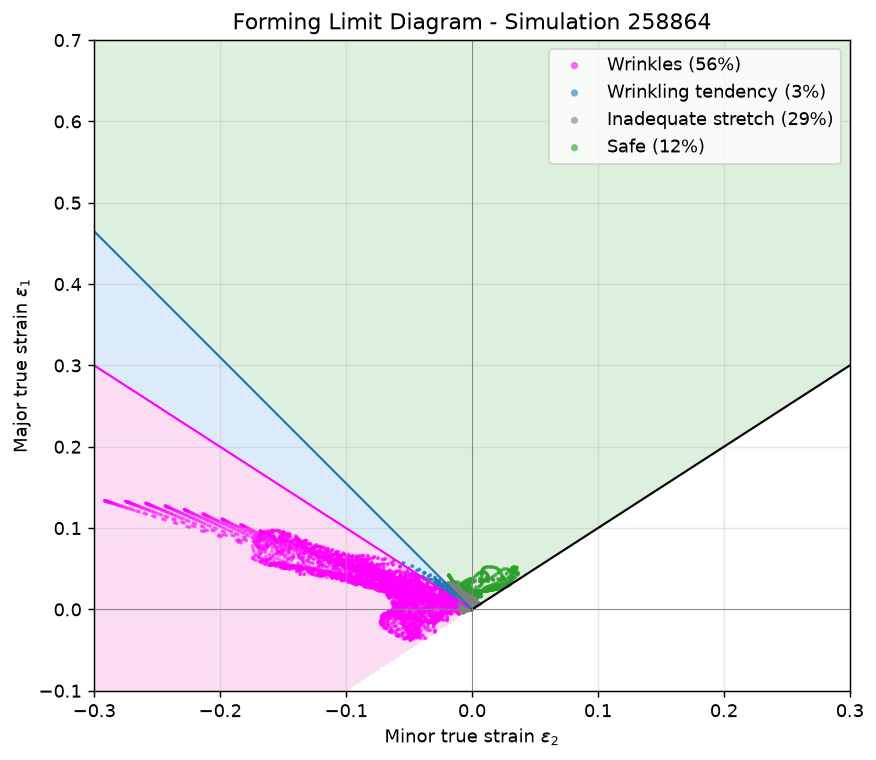
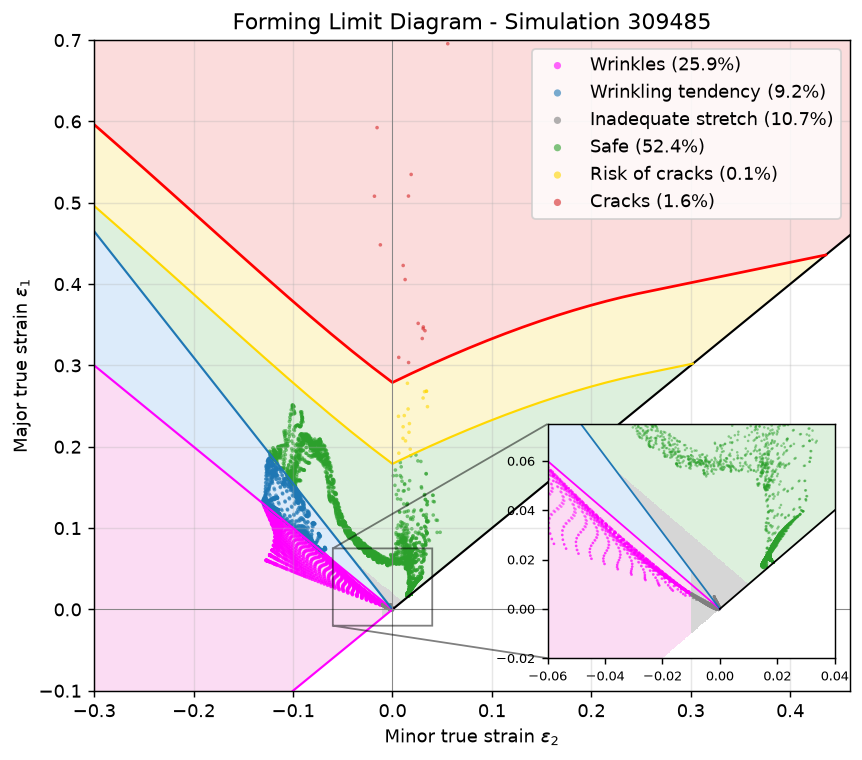
Adjusted the FLD diagram with the required information and ccompared against other markdown files.

diff --git a/docs/analysis/fld.md b/docs/analysis/fld.md
@@ -4,7 +4,7 @@ A forming limit diagram (FLD) judges every shell element of the formed blank by 
 in-plane principal strains: elements that thicken tend to wrinkle, elements that barely
 stretch stay elastic, and elements that stretch far approach the material's forming
 limit curve (FLC). Classifying all elements of a simulation gives a compact formability
-fingerprint — the share of the blank in each zone — that can be compared across the
+fingerprint (the share of the blank in each zone) that can be compared across the
 whole parameter sweep.
 
 The method and zone definitions follow P. Heinzelmann et al.,
@@ -18,22 +18,33 @@ mid-surface, final OP10 state), evaluated left to right:
 
 | zone | rule | meaning |
 |---|---|---|
-| Wrinkles | $\varepsilon_2 \le -0.01$ and $\varepsilon_1 \le \lvert\varepsilon_2\rvert$ | the sheet thickens |
-| Wrinkling tendency | $\varepsilon_2 \le -0.01$ and $\varepsilon_1 \le 1.55\,\lvert\varepsilon_2\rvert$ | strong in-plane compression |
-| Inadequate stretch | $\varepsilon_1 + \varepsilon_2 \le 0.02$ | almost no thinning |
-| Safe | everything else below the FLC | |
-| Risk of cracks / Cracks | within a margin below / above the FLC | requires the material's FLC |
+| Wrinkles | $\varepsilon_2 \le -0.01$ and $\varepsilon_1 \le \lvert\varepsilon_2\rvert$ | the sheet thickens (wrinkle slope 1) |
+| Wrinkling tendency | $\varepsilon_2 \le -0.01$ and $\varepsilon_1 \le \frac{1+R}{R}\lvert\varepsilon_2\rvert$, $R = 1.82$ | strong in-plane compression |
+| Inadequate stretch | $\varepsilon_1 + \varepsilon_2 \le 0.02$ | almost no thinning (essential thinning) |
+| Safe | everything else below the FLC margin | |
+| Risk of cracks | above the FLC shifted down by 0.10 | LS-Dyna margin (shift) |
+| Cracks | above the FLC | |
 
-None of the DDACS simulations reach the crack zones; they activate automatically once
-an FLC is assigned (`FLC_POINTS` below). All thresholds are plain constants at the top
-of the code (`MINOR_LIMIT`, `WRINKLE_SLOPE`, `TENDENCY_SLOPE`, `THINNING_MIN`,
-`FLC_MARGIN`) — adjust them there to explore alternative definitions. The shaded
-background of the diagram is generated with the same `classify` function as the data
-points, so it always reflects the active thresholds.
+The inadequate-stretch zone is a small wedge at the origin (between the physical limit and the 2 % thinning line); the diagram's zoom inset makes it visible. The zone parameters are the LS-Dyna Formability settings used by Heinzelmann
+(R-value 1.82, essential thinning 0.02, wrinkle slope 1, margin 0.10); the FLC is the
+LS-Dyna calculated curve for the sheet (CRLCS, t = 0.8 mm, n = 0.21, true strains),
+shipped as [`flc_dp600.csv`](flc_dp600.csv) next to this page. Only a small fraction of the simulations reaches the crack zone at all (see the
+note at the figures below). All thresholds are plain constants at the top of
+the code (`MINOR_LIMIT`, `WRINKLE_SLOPE`, `R_VALUE`, `THINNING_MIN`, `FLC_MARGIN`);
+adjust them there to explore alternative definitions. The shaded background of the
+diagram is generated with the same `classify` function as the data points, so it
+always reflects the active thresholds.
 
 ## The diagram
 
-<img src="https://raw.githubusercontent.com/BaumSebastian/DDACS/main/docs/images/fld_diagram.png" width="700">
+!!! note "Why this simulation"
+    Simulation 309485 is shown for the visual dynamics: it is one of the few
+    simulations that reach the crack zone at all (a 1500-simulation sample of the
+    published set found 41, about 3 %, typically with only ~1-2 % of their
+    elements above the FLC). The typical DDACS simulation stays below the FLC
+    everywhere.
+
+<img src="../images/fld_diagram.png" width="700">
 
 ??? example "This plot was created with"
 
@@ -46,30 +57,53 @@ points, so it always reflects the active thresholds.
     from matplotlib.colors import ListedColormap
 
     DATA_DIR = Path('./data')      # repository root, or Path('../data') from notebooks/
-    SIM_ID = 258864
+    SIM_ID = 309485
 
     # ---- adjustable zone definition (true strains) -------------------------
     MINOR_LIMIT = -0.01      # left of this, the wrinkling zones apply
-    WRINKLE_SLOPE = 1.0      # wrinkles: major <= WRINKLE_SLOPE * |minor|
-    TENDENCY_SLOPE = 1.5497  # wrinkling tendency: major <= TENDENCY_SLOPE * |minor|
-    THINNING_MIN = 0.02      # inadequate stretch: major + minor <= THINNING_MIN
-    FLC_POINTS = None        # np.loadtxt('DP600.fld', skiprows=2) once available
-    FLC_MARGIN = 0.055       # risk of cracks: within this band below the FLC
+    WRINKLE_SLOPE = 1.0      # wrinkles: major <= WRINKLE_SLOPE * |minor| (LS-Dyna wrinkle slope 1)
+    R_VALUE = 1.82           # Lankford coefficient of the sheet
+    TENDENCY_SLOPE = (1 + R_VALUE) / R_VALUE  # wrinkling tendency: major <= 1.549 * |minor|
+    THINNING_MIN = 0.02      # inadequate stretch: major + minor <= THINNING_MIN (essential thinning)
+    FLC_POINTS = np.loadtxt('docs/analysis/flc_dp600.csv', delimiter=',', skiprows=3)
+    # extend the FLC along its last segment until it meets the physical limit major = minor
+    p1, p2 = FLC_POINTS[-2], FLC_POINTS[-1]
+    s = (p2[1] - p1[1]) / (p2[0] - p1[0])
+    x_red = (p2[1] - s * p2[0]) / (1 - s)
+    FLC_POINTS = np.vstack([FLC_POINTS, [x_red, x_red]])
+    x_yellow = (p2[1] - 0.10 - s * p2[0]) / (1 - s)   # FLC - margin meets major = minor
+    FLC_MARGIN = 0.10        # risk of cracks: FLC shifted down by the LS-Dyna margin
 
     ZONES = ['Wrinkles', 'Wrinkling tendency', 'Inadequate stretch', 'Safe',
              'Risk of cracks', 'Cracks']
     ZONE_COLORS = ['magenta', 'tab:blue', 'tab:gray', 'tab:green', 'gold', 'tab:red']
-    ZONE_BACKGROUNDS = ['#fbdcf3', '#dcebfa', '#ececec', '#ddf0dd', '#fdf6d0', '#fbdcdc']
+    ZONE_BACKGROUNDS = ['#fbdcf3', '#dcebfa', '#d6d6d6', '#ddf0dd', '#fdf6d0', '#fbdcdc']
 
 
-    def principal_strains(strain):
-        """In-plane principal strains from the mid-surface strain tensor.
+    def principal_strains(strain, nodes, faces):
+        """In-plane principal strains, evaluated in each element's local frame.
 
-        strain: (m, 2, 6) lower/upper surface tensors (xx, yy, zz, xy, yz, zx).
-        Returns (minor, major) per element.
+        LS-PrePost recipe: rotate the mid-surface strain tensor into the element
+        coordinate system (z = element normal), drop the z components, take the
+        2D principal values. strain: (m, 2, 6) lower/upper surface tensors
+        (xx, yy, zz, xy, yz, zx) in global coordinates. Returns (minor, major).
         """
-        e = strain.mean(axis=1)  # mid-surface
-        xx, yy, xy = e[:, 0], e[:, 1], e[:, 3]
+        e = strain.mean(axis=1)                    # mid-surface, global frame
+        p = nodes[faces - faces.min()]             # (m, 4, 3) corner coordinates
+        ez = np.cross(p[:, 2] - p[:, 0], p[:, 3] - p[:, 1])   # element normal
+        ez /= np.linalg.norm(ez, axis=1, keepdims=True)
+        a = np.where(np.abs(ez[:, [0]]) < 0.9, np.array([1.0, 0, 0]), np.array([0, 1.0, 0]))
+        ex = a - (a * ez).sum(1, keepdims=True) * ez
+        ex /= np.linalg.norm(ex, axis=1, keepdims=True)
+        ey = np.cross(ez, ex)
+        R = np.stack([ex, ey, ez], axis=1)         # rows = local axes
+        T = np.zeros((len(e), 3, 3))
+        T[:, 0, 0], T[:, 1, 1], T[:, 2, 2] = e[:, 0], e[:, 1], e[:, 2]
+        T[:, 0, 1] = T[:, 1, 0] = e[:, 3]
+        T[:, 1, 2] = T[:, 2, 1] = e[:, 4]
+        T[:, 0, 2] = T[:, 2, 0] = e[:, 5]
+        L = R @ T @ R.transpose(0, 2, 1)           # tensor in the element frame
+        xx, yy, xy = L[:, 0, 0], L[:, 1, 1], L[:, 0, 1]
         center = (xx + yy) / 2
         radius = np.sqrt(((xx - yy) / 2) ** 2 + xy**2)
         return center - radius, center + radius
@@ -91,12 +125,14 @@ points, so it always reflects the active thresholds.
 
     with ddacs.open_h5(SIM_ID, data_dir=DATA_DIR) as f:
         strain = f['OP10/blank/element_shell_strain'][-1]
+        nodes = f['OP10/blank/node_displacement'][-1]
+        faces = f['OP10/blank/element_shell_node_indexes'][:]
 
-    minor, major = principal_strains(strain)
+    minor, major = principal_strains(strain, nodes, faces)
     zone = classify(minor, major)
     shares = {name: float((zone == k).mean()) for k, name in enumerate(ZONES)}
 
-    XLIM, YLIM = (-0.3, 0.3), (-0.1, 0.7)
+    XLIM, YLIM = (-0.3, 0.46), (-0.1, 0.7)  # x reaches the FLC / physical-limit intersection
     fig, ax = plt.subplots(figsize=(7.5, 6.5))
     # background: every point of the plane classified with the same function,
     # masked where major < minor (physically impossible)
@@ -111,12 +147,14 @@ points, so it always reflects the active thresholds.
     ax.plot(xr, xr, color='black', lw=1.2)   # physical limit: major = minor
     if FLC_POINTS is not None:
         ax.plot(FLC_POINTS[:, 0], FLC_POINTS[:, 1], color='red', lw=1.5)
-        ax.plot(FLC_POINTS[:, 0], FLC_POINTS[:, 1] - FLC_MARGIN, color='gold', lw=1.2)
+        yy = FLC_POINTS[:, 1] - FLC_MARGIN
+        keep = yy >= FLC_POINTS[:, 0]              # clip the margin line at major = minor
+        ax.plot(np.append(FLC_POINTS[keep, 0], x_yellow), np.append(yy[keep], x_yellow), color='gold', lw=1.2)
     for k, (name, color) in enumerate(zip(ZONES, ZONE_COLORS)):
         sel = zone == k
         if sel.any():
             ax.scatter(minor[sel], major[sel], s=4, alpha=0.6, color=color,
-                       label=f'{name} ({shares[name]:.0%})', edgecolors='none')
+                       label=f'{name} ({shares[name]:.1%})', edgecolors='none')
     ax.axhline(0, color='gray', lw=0.5)
     ax.axvline(0, color='gray', lw=0.5)
     ax.set_xlim(XLIM); ax.set_ylim(YLIM)
@@ -125,6 +163,23 @@ points, so it always reflects the active thresholds.
     ax.set_title(f'Forming Limit Diagram - Simulation {SIM_ID}')
     ax.legend(markerscale=2, loc='upper right')
     ax.grid(alpha=0.3)
+    # zoom inset at the origin: makes the small inadequate-stretch wedge visible
+    axins = ax.inset_axes([0.60, 0.05, 0.38, 0.36])
+    gxi, gyi = np.meshgrid(np.linspace(-0.06, 0.04, 400), np.linspace(-0.02, 0.075, 400))
+    gzi = np.ma.masked_where(gyi < gxi, classify(gxi, gyi))
+    axins.pcolormesh(gxi, gyi, gzi, cmap=ListedColormap(ZONE_BACKGROUNDS),
+                     vmin=-0.5, vmax=5.5, shading='auto')
+    xi = np.linspace(-0.06, 0, 30)
+    axins.plot(xi, WRINKLE_SLOPE * np.abs(xi), color='magenta', lw=1)
+    axins.plot(xi, TENDENCY_SLOPE * np.abs(xi), color='tab:blue', lw=1)
+    axins.plot(np.linspace(0, 0.04, 10), np.linspace(0, 0.04, 10), color='black', lw=1)
+    for k, color in enumerate(ZONE_COLORS):
+        sel = zone == k
+        if sel.any():
+            axins.scatter(minor[sel], major[sel], s=2, alpha=0.5, color=color, edgecolors='none')
+    axins.set_xlim(-0.06, 0.04); axins.set_ylim(-0.02, 0.075)
+    axins.tick_params(labelsize=7)
+    ax.indicate_inset_zoom(axins, edgecolor='black')
     plt.show()
     ```
 
@@ -133,15 +188,11 @@ points, so it always reflects the active thresholds.
 The same labels drawn on the formed blank: wrinkles sit in the drawn wall and the
 flange transition, the safe zone on the stretched bottom face.
 
-<img src="https://raw.githubusercontent.com/BaumSebastian/DDACS/main/docs/images/fld_mesh.png" width="700">
+<img src="../images/fld_mesh.png" width="700">
 
 ??? example "This plot was created with"
 
     ```python
-    with ddacs.open_h5(SIM_ID, data_dir=DATA_DIR) as f:
-        nodes = f['OP10/blank/node_displacement'][-1]
-        faces = f['OP10/blank/element_shell_node_indexes'][:]
-
     ax, cbar = ddacs.plot_mesh(
         nodes, faces,
         values=zone.astype(float),
@@ -156,12 +207,73 @@ flange transition, the safe zone on the stretched bottom face.
     plt.show()
     ```
 
+## Zone shares across the parameter space
+
+The per-simulation zone shares are a compact formability fingerprint, the same
+aggregation the accompanying paper applies to the full sweep. Each simulation is
+reduced to one vector of zone shares:
+
+$$ \mathbf{p} = \left(p_{\text{Wrinkles}},\ p_{\text{Tendency}},\ p_{\text{Inadequate}},\ p_{\text{Safe}},\ p_{\text{Risk}},\ p_{\text{Cracks}}\right), \qquad p_k = \frac{n_k}{m}, \qquad \sum_k p_k = 1 $$
+
+with $n_k$ the number of blank elements in zone $k$ and $m$ the total number of
+blank elements. In the paper this vector is the prediction target: a model maps
+the eight process parameters of a simulation to $\mathbf{p}$, instead of
+classifying every element individually. Over all 32,466
+published simulations the trends are monotonic and physically plausible: more
+blankholder force suppresses wrinkling (40 % to 28 %) and inadequate stretch
+(37 % to 20 %) and grows the safe share from 11 % to 37 %. The shaded bands are
+the 10th to 90th percentile across the simulations of each force level; the
+spread within a level (geometry, thickness, friction) is of the same order as the
+trend itself. Crack elements stay rare throughout: 3.1 % of the simulations have
+any (at most 1.6 % of their elements), concentrated at the highest forces.
+
+<img src="https://raw.githubusercontent.com/BaumSebastian/DDACS/main/docs/images/fld_zones_vs_bf.png" width="700">
+
+??? example "This plot was created with"
+
+    ```python
+    import pandas as pd
+
+    rows = []
+    for _, prow in params.iterrows():          # every published simulation
+        with ddacs.open_h5(int(prow['index']), data_dir=DATA_DIR) as f:
+            strain = f['OP10/blank/element_shell_strain'][-1]
+            nodes = f['OP10/blank/node_displacement'][-1]
+            faces = f['OP10/blank/element_shell_node_indexes'][:]
+        minor, major = principal_strains(strain, nodes, faces)
+        zone = classify(minor, major)
+        rows.append({'BF': float(prow['blankholder_force']),
+                     **{name: float((zone == k).mean()) for k, name in enumerate(ZONES)}})
+    df = pd.DataFrame(rows)
+
+    bf = df['BF'] / 1000
+    mean = df.groupby(bf)[ZONES].mean() * 100
+    lo = df.groupby(bf)[ZONES].quantile(0.10) * 100
+    hi = df.groupby(bf)[ZONES].quantile(0.90) * 100
+    fig, ax = plt.subplots(figsize=(7.5, 4.8))
+    for name, color in zip(ZONES, ZONE_COLORS):
+        ax.plot(mean.index, mean[name], 'o-', color=color, label=name, ms=4)
+        ax.fill_between(mean.index, lo[name], hi[name], color=color, alpha=0.2, linewidth=0)
+    ax.set_xlabel('blankholder force in kN')
+    ax.set_ylabel('share of elements in %')
+    ax.legend(); ax.grid(alpha=0.3)
+    plt.show()
+    ```
+
+    `params` is `process_parameters.csv`; `principal_strains`, `classify`, `ZONES`
+    and `ZONE_COLORS` are the definitions from the diagram example above. The full
+    loop takes a couple of hours single-threaded; parallelise over simulations
+    (`concurrent.futures`) for a coffee-break runtime.
+
 ## Notes
 
 - Strains are read from `element_shell_strain` (final OP10 state) and averaged over the
   lower and upper integration surface; the in-plane principal values are computed from
-  the $xx$, $yy$, $xy$ components. This is a simple, reproducible definition — for
-  strongly bent wall elements a surface-resolved evaluation can differ.
+  the $xx$, $yy$, $xy$ components after rotating the tensor into the element's local
+  frame (z = element normal) and dropping the z components (the LS-PrePost recipe).
+  A plain global-frame evaluation is only exact where the element plane is
+  axis-aligned; on inclined wall elements it underestimates the strains enough to
+  hide the crack zone entirely.
 - The zone shares make a per-simulation formability fingerprint: computed over the
   sweep, the safe share rises and the wrinkle share falls monotonically with
   blankholder force.

diff --git a/docs/tutorials/streaming.md b/docs/tutorials/streaming.md
@@ -117,7 +117,7 @@ Output:
 
 ## 4. Read the shards back with `load_export`
 
-`ddacs.streaming.load_export(directory)` opens the exported folder behind the standard Python data model (`__len__`, `__getitem__`, `__iter__`, plus `by_sim_id`). Each row is a plain `dict[str, np.ndarray]`. Reads are sub-millisecond after the first access and the full release fits even when it doesn't fit in RAM — only the rows you actually access are loaded from disk.
+`ddacs.streaming.load_export(directory)` opens the exported folder behind the standard Python data model (`__len__`, `__getitem__`, `__iter__`, plus `by_sim_id`). Each row is a plain `dict[str, np.ndarray]`. Reads are sub-millisecond after the first access and the full release fits even when it doesn't fit in RAM, since only the rows you actually access are loaded from disk.
 
 ??? note "Why it is fast: memory-mapped reads in one paragraph (skip if not interested)"
     The shards are opened with `mmap_mode='r'`, which maps each `.npy` file directly into the process's virtual address space. Accessing `arr[i]` becomes an ordinary memory read; the operating system fetches whatever page that lives on from disk on demand and keeps a copy in its page cache. No pickle, no buffer allocation, no copy on the read path. The same page cache is shared across processes, so a `DataLoader(num_workers=N)` does not multiply the cached data by `N`. Cold reads pay the disk seek + page fault; warm reads are RAM-fast.
@@ -150,7 +150,7 @@ export.sim_ids = [258864]
   scale_mm   shape=()  dtype=float32
 ```
 
-Round trip back to mm — inverting the normalisation is one numpy expression on the per-record data:
+Round trip back to mm: inverting the normalisation is one numpy expression on the per-record data:
 
 ```python
 record = export[0]
@@ -164,7 +164,7 @@ Output:
 de-norm forming_mm range: [+0.000, +98.136] mm
 ```
 
-For a PyTorch training loop, pass the same `export` straight into a `DataLoader` — the map-style `Dataset` protocol is just `len + getitem`, which this object provides natively:
+For a PyTorch training loop, pass the same `export` straight into a `DataLoader`; the map-style `Dataset` protocol is just `len + getitem`, which this object provides natively:
 
 ```python
 from torch.utils.data import DataLoader
@@ -230,7 +230,7 @@ plt.show()
 
 ## 7. When records have variable shapes (`export_to_numpy_per_sim`)
 
-`export_to_numpy` pre-allocates one memmap per alias, sized from record 0 as `(n_sims, *field_shape)`. Every subsequent record must produce the exact same shape per alias; a shape mismatch raises a `ValueError` pointing here. The constraint is the right contract for views where every simulation has the same topology — e.g. the `forming` point cloud above, or any view that ran through a uniform sampling step that pinned `N` to a fixed value. It is **not** the right contract for views whose outputs vary across simulations: a graph view that exposes `edge_index` with sim-dependent edge counts, or a raw vertex set whose `N` differs per geometry corner.
+`export_to_numpy` pre-allocates one memmap per alias, sized from record 0 as `(n_sims, *field_shape)`. Every subsequent record must produce the exact same shape per alias; a shape mismatch raises a `ValueError` pointing here. The constraint is the right contract for views where every simulation has the same topology, e.g. the `forming` point cloud above, or any view that ran through a uniform sampling step that pinned `N` to a fixed value. It is **not** the right contract for views whose outputs vary across simulations: a graph view that exposes `edge_index` with sim-dependent edge counts, or a raw vertex set whose `N` differs per geometry corner.
 
 For those cases, use `ddacs.streaming.export_to_numpy_per_sim`. Same iteration pipeline (`iter_view` + per-field `transforms` + whole-record `record_transform`), same `_sim_id` enrichment, but the writer is one `np.savez(<sim_id>.npz)` per record instead of one memmap per alias. Each `.npz` carries all the aliases for one simulation; consumers reload via `np.load(path)` and access by key.
 
@@ -250,7 +250,7 @@ Trade-offs vs `export_to_numpy`:
 - **No fixed-shape constraint.** Variable-`N` and ragged tensors are fine.
 - **One file per sim.** Random access by sim id is just `np.load(out_dir / f"{sim_id}.npz")`.
 
-Two ways to make a variable-shape view fit `export_to_numpy` instead — preferable when the data permits, because the mmap path is faster:
+Two ways to make a variable-shape view fit `export_to_numpy` instead, preferable when the data permits, because the mmap path is faster:
 
 1. **Sample to a fixed point count** before export. A uniform / area-weighted barycentric sample (e.g. 4096 points per blank, 2048 per tool) gives every record the same shape per alias.
 2. **Pad to a max shape and emit a mask.** Cheaper to write than to compose; wastes 20-30% of disk if the largest sim is much bigger than the median.
@@ -270,7 +270,7 @@ def chained(rec):
     return uniform_sample(normalize_and_emit(rec))
 ```
 
-Pass `chained` as the `record_transform=`; the downstream `export_to_numpy` call now succeeds with `forming` and `delta` shaped `(n_points, 3)` in every record. The example above is naive — it samples vertex indices uniformly, ignoring triangle area, which under-represents large faces. Use it as a baseline; area-weighted barycentric sampling that respects mesh geometry is a separate concern beyond this tutorial.
+Pass `chained` as the `record_transform=`; the downstream `export_to_numpy` call now succeeds with `forming` and `delta` shaped `(n_points, 3)` in every record. The example above is naive: it samples vertex indices uniformly, ignoring triangle area, which under-represents large faces. Use it as a baseline; area-weighted barycentric sampling that respects mesh geometry is a separate concern beyond this tutorial.
 
 <img src="https://raw.githubusercontent.com/BaumSebastian/DDACS/main/docs/images/06_streaming_sampled.png" width="700">
 

diff --git a/docs/tutorials/views.md b/docs/tutorials/views.md
@@ -54,7 +54,7 @@ Field IDs (such as `op10_blank_node_displacement`) come from the field-map Recor
 | `("field_id", None)` | whole field-map field (explicit) | same as above |
 | `("field_id", int)` | one timestep (field-map only) | one axis dropped, e.g. `(V, 3) float64` |
 | `("field_id", [int, int, ...])` | subset of timesteps (field-map only) | subset along axis 0, e.g. `(2, V, 3) float64` |
-| `"<record-set>/<field>"` | qualified id, pulls from any RecordSet (e.g. `"process-parameters/sheet_metal_thickness"`) | depends on the source — scalars for CSV columns (`float64`, `bool`, `str`), full arrays for field-map fields |
+| `"<record-set>/<field>"` | qualified id, pulls from any RecordSet (e.g. `"process-parameters/sheet_metal_thickness"`) | depends on the source: scalars for CSV columns (`float64`, `bool`, `str`), full arrays for field-map fields |
 
 Behind the scenes a JSONPath transform is attached to each field that requires slicing: `("...", 2)` becomes `$[2]`, `("...", [2, 3])` becomes `$[2,3]`. The transform is applied at iteration time, so memory and IO scale with the timesteps actually requested, not with the full HDF5 array.
 

diff --git a/docs/tutorials/pytorch.md b/docs/tutorials/pytorch.md
@@ -252,7 +252,7 @@ locally indexed: 1
   forming                        shape=(1, 11236, 3) dtype=torch.float64
 ```
 
-Same flow with `where=`, `sim_ids=`, and `shuffle=` works against `custom_ds` — the custom view is just another `RecordSet` once it lives on `ds_manifest`.
+Same flow with `where=`, `sim_ids=`, and `shuffle=` works against `custom_ds`; the custom view is just another `RecordSet` once it lives on `ds_manifest`.
 
 If you do not need a `DataLoader` or PyTorch at all, `ddacs.streaming.iter_view(view='forming-only', data_dir=DATA_DIR, dataset=ds_manifest)` is the no-torch equivalent that yields the same records one at a time. The [Streaming and numpy export](streaming.md) tutorial covers it and shows the matching `streaming.export_to_numpy` recipe for materialising a view as flat `.npy` shards.
 

diff --git a/docs/process-parameters.md b/docs/process-parameters.md
@@ -24,11 +24,11 @@ The three dimensional parameters are defined on the punch as shown below: `botto
 
 Each family is rendered below as a formed blank at the end of each operation; the three panels per row share a colour scale of vertical height (Z, in mm) so the depth of the cup is directly comparable across families.
 
-**OP10 — after springback**
+**OP10, after springback**
 
 <img src="https://raw.githubusercontent.com/BaumSebastian/DDACS/main/docs/images/example_geometries_op10.png" width="700">
 
-**OP20 — after cutting**
+**OP20, after cutting**
 
 <img src="https://raw.githubusercontent.com/BaumSebastian/DDACS/main/docs/images/example_geometries_op20.png" width="700">
 
